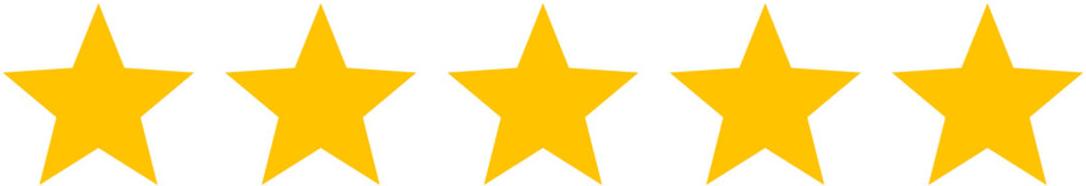
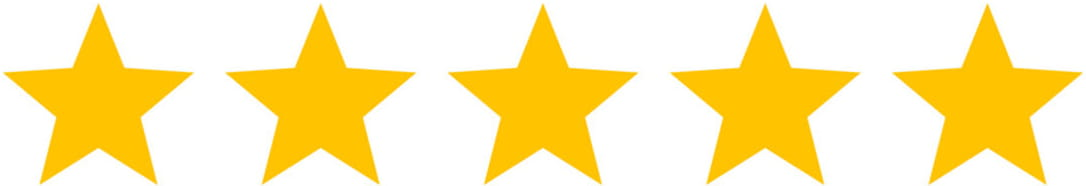
Page insights

diff --git a/src/app/(web)/_components/Products/ProductsLayout/ProductsLayout.css.ts b/src/app/(web)/_components/Products/ProductsLayout/ProductsLayout.css.ts
@@ -1,5 +1,3 @@
-import { calc } from "@vanilla-extract/css-utils";
-
 import { css, cssVariant } from "@/theme";
 
 export const titleClass = cssVariant(
@@ -141,17 +139,13 @@ export const tabButtonClass = css(({ devices }) => ({
 }));
 
 export const tabImageClass = css(({ easing }) => ({
-  display: "block",
-  height: "auto",
-  minHeight: `${calc("100%").add("10px")}`,
-  minWidth: `${calc("100%").add("4px")}`,
+  objectFit: "cover",
   selectors: {
     [`${tabButtonClass}:hover > &`]: {
       transform: "scale(1.05)",
     },
   },
   transition: `transform .5s ${easing}`,
-  width: "100%",
 }));
 
 export const tabLabelClass = css(({ devices, fonts }) => ({

diff --git a/src/app/(web)/_components/Products/ProductsLayout/ProductsLayout.tsx b/src/app/(web)/_components/Products/ProductsLayout/ProductsLayout.tsx
@@ -62,11 +62,10 @@ const ProductsLayout: React.FC<TProps> = ({ categories, renderedProducts, showAl
                   <Image
                     alt={title}
                     className={tabImageClass}
-                    height={0}
+                    fill
                     loading="eager"
-                    sizes="100vw"
+                    sizes="(min-width: 1023px) 25vw, 50vw"
                     src={imageUrl}
-                    width={0}
                   />
 
                   <span className={tabLabelClass}>{title}</span>

diff --git a/next.config.ts b/next.config.ts
@@ -3,7 +3,7 @@ import { createVanillaExtractPlugin } from "@vanilla-extract/next-plugin";
 import type { NextConfig } from "next";
 
 const withVanillaExtract = createVanillaExtractPlugin({
-  unstable_turbopack: { mode: "auto" },
+  unstable_turbopack: { mode: "on" },
 });
 
 const config: NextConfig = {

diff --git a/src/app/(web)/_components/Controls/Controls.tsx b/src/app/(web)/_components/Controls/Controls.tsx
@@ -78,6 +78,7 @@ const Controls: React.FC<TProps> = ({
         <div className={layoutClass}>
           {showScroller && (
             <button
+              aria-label="Scroll to top"
               className={buttonClass}
               onClick={handleScrollTop}
               type="button"
@@ -90,6 +91,7 @@ const Controls: React.FC<TProps> = ({
           )}
 
           <button
+            aria-label="Open schedule dialog"
             className={buttonClass}
             onClick={handleUserDialogToggle}
             type="button"

diff --git a/src/app/(web)/(home)/_components/Hero/Hero.tsx b/src/app/(web)/(home)/_components/Hero/Hero.tsx
@@ -28,6 +28,7 @@ const Hero: React.FC = async () => {
         <Image
           alt="Hero main."
           className={bgImageClass}
+          fetchPriority="high"
           fill
           priority
           sizes="100vw"

diff --git a/src/app/(web)/_components/Cart/Cart.tsx b/src/app/(web)/_components/Cart/Cart.tsx
@@ -31,6 +31,7 @@ const Cart: React.FC = async () => {
     <div className={wrapperClass}>
       <div className={layoutClass}>
         <Link
+          aria-label="Go to cart"
           className={linkClass}
           href="/cart"
         >

diff --git a/src/app/(web)/_components/Controls/Controls.css.ts b/src/app/(web)/_components/Controls/Controls.css.ts
@@ -60,6 +60,7 @@ export const buttonClass = css(({ colors, easing }) => ({
   opacity: 0.7,
   overflow: "hidden",
   pointerEvents: "auto",
+  textIndent: -9999,
   transition: `opacity .2s ${easing}`,
   width: 45,
 

diff --git a/src/app/(web)/_components/Products/ProductsItem/Submit/Submit.tsx b/src/app/(web)/_components/Products/ProductsItem/Submit/Submit.tsx
@@ -43,6 +43,7 @@ const Submit: React.FC<TProps> = (product) => {
   return (
     <Form action={formAction}>
       <button
+        aria-label="Add to cart"
         className={buttonClass}
         type="submit"
       >

diff --git a/src/theme/components/Dialog/Dialog.css.ts b/src/theme/components/Dialog/Dialog.css.ts
@@ -68,6 +68,7 @@ export const closeButtonClass = css({
   color: "white",
   height: 30,
   padding: 0,
+  textIndent: -9999,
   width: 30,
 
   ":focus": {

diff --git a/src/theme/components/Dialog/Dialog.tsx b/src/theme/components/Dialog/Dialog.tsx
@@ -35,6 +35,7 @@ const Dialog: React.FC<TProps> = ({ contactItems, isOpened, isShopOpen, onClose,
         >
           <div className={headerClass}>
             <button
+              aria-label="Close dialog"
               className={closeButtonClass}
               onClick={onClose}
               type="button"